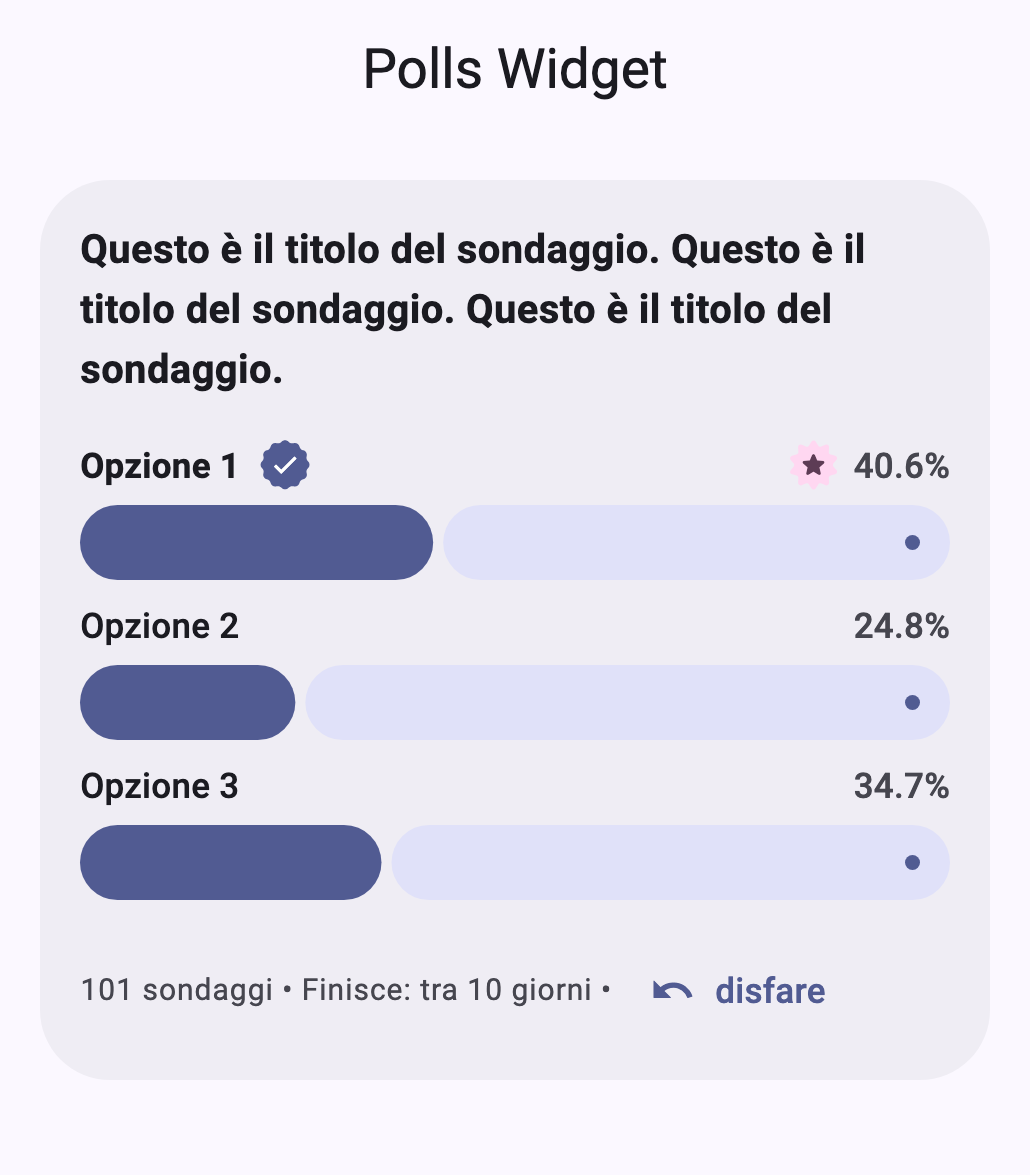
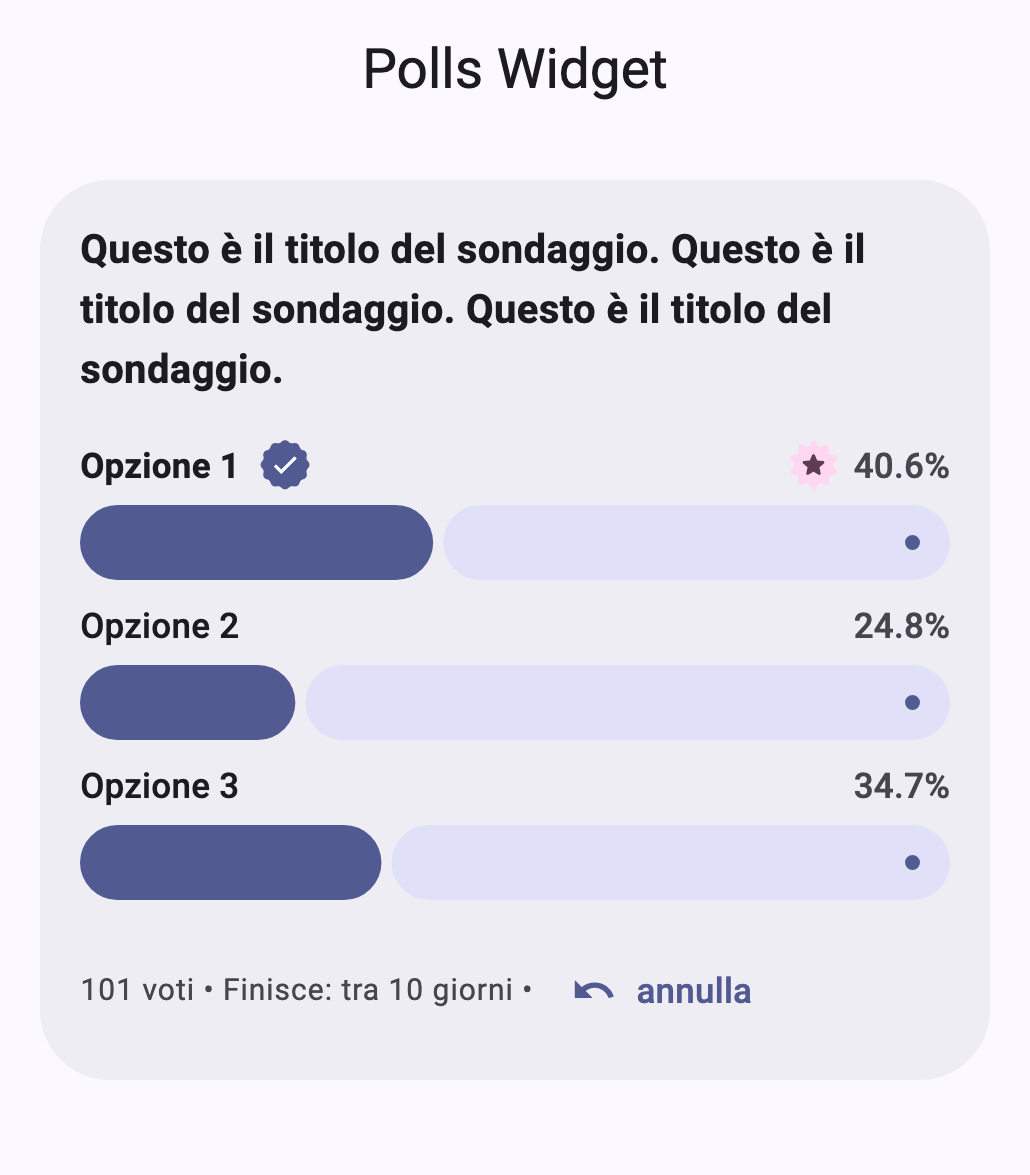
cleanup locale

Changed region(s): [[0.1243, 0.8272, 0.5903, 0.8579], [0.6214, 0.8272, 0.8078, 0.8579]]

diff --git a/lib/locale/poll_locale.dart b/lib/locale/poll_locale.dart
@@ -1,6 +1,5 @@
-// Pluggable text/formatting strategy for `SimplePoll`, replacing the hardcoded
-// translation maps from 1.x. Provide a built-in `PollLocale` or construct a
-// custom one to override any label or add a language.
+// Labels and time formatting for `SimplePoll`. Use a built-in locale or
+// construct one to override any label or add a language.
 import 'package:flutter/foundation.dart';
 import 'package:timeago/timeago.dart' as timeago;
 
@@ -8,6 +7,8 @@ typedef PollTimeRemainingFormatter = String Function(DateTime endsAt);
 
 @immutable
 class PollLocale {
+  /// The `timeago` locale used to format the time left, e.g. `'it'`.
+  final String languageCode;
   final String votesLabel;
   final String endsLabel;
   final String pollingEndedLabel;
@@ -19,9 +20,12 @@ class PollLocale {
 
   /// Screen reader label for the option(s) with the most votes.
   final String leadingLabel;
-  final PollTimeRemainingFormatter formatTimeRemaining;
+
+  /// Replaces the `timeago` formatting of the time left.
+  final PollTimeRemainingFormatter? timeRemainingFormatter;
 
   const PollLocale({
+    required this.languageCode,
     required this.votesLabel,
     required this.endsLabel,
     required this.pollingEndedLabel,
@@ -29,41 +33,42 @@ class PollLocale {
     required this.voteButtonLabel,
     this.selectedLabel = 'Selected',
     this.leadingLabel = 'Leading',
-    required this.formatTimeRemaining,
+    this.timeRemainingFormatter,
   });
 
   static const en = PollLocale(
+    languageCode: 'en',
     votesLabel: 'votes',
     endsLabel: 'Ends',
     pollingEndedLabel: 'Polling Ended',
     undoLabel: 'undo',
     voteButtonLabel: 'Vote',
-    formatTimeRemaining: _formatTimeRemainingEn,
   );
 
   static const it = PollLocale(
-    votesLabel: 'sondaggi',
+    languageCode: 'it',
+    votesLabel: 'voti',
     endsLabel: 'Finisce',
     pollingEndedLabel: 'Sondaggio terminato',
-    undoLabel: 'disfare',
+    undoLabel: 'annulla',
     voteButtonLabel: 'Vota',
     selectedLabel: 'Selezionato',
     leadingLabel: 'In testa',
-    formatTimeRemaining: _formatTimeRemainingIt,
   );
 
   static const fr = PollLocale(
-    votesLabel: 'les sondages',
+    languageCode: 'fr',
+    votesLabel: 'votes',
     endsLabel: 'Prend fin',
     pollingEndedLabel: 'Sondage terminé',
     undoLabel: 'annuler',
     voteButtonLabel: 'Voter',
     selectedLabel: 'Sélectionné',
     leadingLabel: 'En tête',
-    formatTimeRemaining: _formatTimeRemainingFr,
   );
 
   static const es = PollLocale(
+    languageCode: 'es',
     votesLabel: 'votos',
     endsLabel: 'Termina',
     pollingEndedLabel: 'Encuesta finalizada',
@@ -71,10 +76,10 @@ class PollLocale {
     voteButtonLabel: 'Votar',
     selectedLabel: 'Seleccionado',
     leadingLabel: 'A la cabeza',
-    formatTimeRemaining: _formatTimeRemainingEs,
   );
 
   static const de = PollLocale(
+    languageCode: 'de',
     votesLabel: 'Stimmen',
     endsLabel: 'Endet',
     pollingEndedLabel: 'Umfrage beendet',
@@ -82,39 +87,23 @@ class PollLocale {
     voteButtonLabel: 'Abstimmen',
     selectedLabel: 'Ausgewählt',
     leadingLabel: 'Führend',
-    formatTimeRemaining: _formatTimeRemainingDe,
   );
-}
 
-/// Locale codes whose `timeago` messages have already been registered.
-final Set<String> _registeredTimeagoLocales = {'en'};
-
-void _ensureTimeagoLocaleRegistered(String localeCode) {
-  if (!_registeredTimeagoLocales.add(localeCode)) return;
-  switch (localeCode) {
-    case 'it':
-      timeago.setLocaleMessages('it', timeago.ItMessages());
-    case 'fr':
-      timeago.setLocaleMessages('fr', timeago.FrMessages());
-    case 'es':
-      timeago.setLocaleMessages('es', timeago.EsMessages());
-    case 'de':
-      timeago.setLocaleMessages('de', timeago.DeMessages());
+  String formatTimeRemaining(DateTime endsAt) {
+    if (timeRemainingFormatter case final format?) return format(endsAt);
+    _registerTimeagoLocales();
+    return timeago.format(endsAt, locale: languageCode, allowFromNow: true);
   }
 }
 
-String _formatTimeRemaining(DateTime endsAt, String localeCode) {
-  _ensureTimeagoLocaleRegistered(localeCode);
-  return timeago.format(endsAt, locale: localeCode, allowFromNow: true);
-}
+var _timeagoLocalesRegistered = false;
 
-String _formatTimeRemainingEn(DateTime endsAt) =>
-    _formatTimeRemaining(endsAt, 'en');
-String _formatTimeRemainingIt(DateTime endsAt) =>
-    _formatTimeRemaining(endsAt, 'it');
-String _formatTimeRemainingFr(DateTime endsAt) =>
-    _formatTimeRemaining(endsAt, 'fr');
-String _formatTimeRemainingEs(DateTime endsAt) =>
-    _formatTimeRemaining(endsAt, 'es');
-String _formatTimeRemainingDe(DateTime endsAt) =>
-    _formatTimeRemaining(endsAt, 'de');
+/// `timeago` only ships English messages registered by default.
+void _registerTimeagoLocales() {
+  if (_timeagoLocalesRegistered) return;
+  _timeagoLocalesRegistered = true;
+  timeago.setLocaleMessages('it', timeago.ItMessages());
+  timeago.setLocaleMessages('fr', timeago.FrMessages());
+  timeago.setLocaleMessages('es', timeago.EsMessages());
+  timeago.setLocaleMessages('de', timeago.DeMessages());
+}

diff --git a/test/poll_locale_test.dart b/test/poll_locale_test.dart
@@ -1,0 +1,36 @@
+import 'package:flutter_test/flutter_test.dart';
+import 'package:simple_polls/simple_polls.dart';
+
+void main() {
+  final endsAt = DateTime.now().add(const Duration(days: 10, minutes: 1));
+
+  test('built-in locales format the time left in their language', () {
+    final formatted = {
+      for (final locale in [
+        PollLocale.en,
+        PollLocale.it,
+        PollLocale.fr,
+        PollLocale.es,
+        PollLocale.de,
+      ])
+        locale.languageCode: locale.formatTimeRemaining(endsAt),
+    };
+
+    expect(formatted['en'], '10 days from now');
+    expect(formatted.values.toSet(), hasLength(5));
+  });
+
+  test('timeRemainingFormatter replaces timeago', () {
+    final locale = PollLocale(
+      languageCode: 'en',
+      votesLabel: 'votes',
+      endsLabel: 'Ends',
+      pollingEndedLabel: 'Ended',
+      undoLabel: 'undo',
+      voteButtonLabel: 'Vote',
+      timeRemainingFormatter: (endsAt) => 'soon',
+    );
+
+    expect(locale.formatTimeRemaining(endsAt), 'soon');
+  });
+}

diff --git a/CHANGELOG.md b/CHANGELOG.md
@@ -10,6 +10,12 @@ Pass `PollStyle(variant: StyleVariant.material3)` to keep the 2.x look.
 `PollStyle.padding` and `optionShape` are now nullable and default per
 variant.
 * Added `PollLocale.selectedLabel` and `leadingLabel` for screen readers.
+* BREAKING: `PollLocale` takes a required `languageCode` (the `timeago`
+locale) instead of a required `formatTimeRemaining` function.
+`formatTimeRemaining` is now a method; pass `timeRemainingFormatter` to
+replace the `timeago` formatting.
+* Fixed Italian and French translations: votes are "voti"/"votes" (were
+"sondaggi"/"les sondages", meaning polls) and Italian undo is "annulla".
 * Undo is now a real button (touch target and semantics) in both variants.
 * Text uses the theme's text styles instead of fixed font sizes.
 
